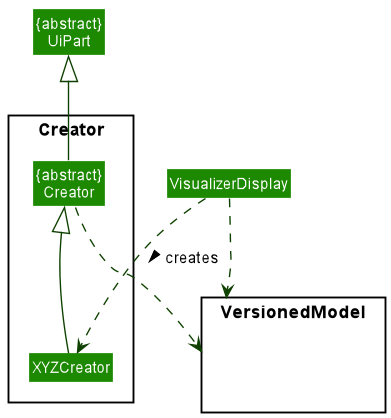
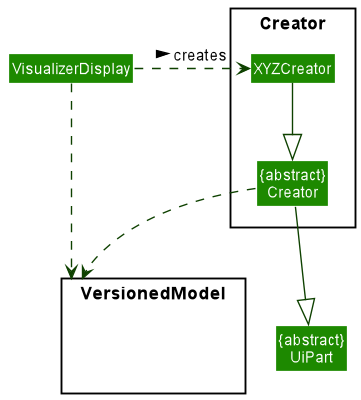
Improve documentations

Changed region(s): [[0.0, 0.0, 1.0, 0.99], [0.2133, 0.57, 0.2438, 0.6]]

diff --git a/docs/DeveloperGuide.md b/docs/DeveloperGuide.md
@@ -160,10 +160,7 @@ The **API** of this component is specified in [`Ui.java`](https://github.com/AY2
 The UI consists of a `MainWindow` that is made up of parts smaller UI-part components, including `CommandBox`, `ResultDisplay`, 
 `VisualizerDisplay`, `StudentListPanel`, `StatusBarFooter` etc. All these, including the `MainWindow`, inherit from the abstract 
 `UiPart` class which captures the commonalities between classes that represent smaller parts of the visible GUI. Of these, all components are always presented,
-except for the Help Window which can be shown or hide depending on the results of user command.
-
-Some classes of the UI, notably `CommandBox` and `AppMenu`, keeps a reference of a functional interface called `CommandExecutor` that
-executes a Command from the Logic `component`.
+except for the Help Window which can be shown or hidden depending on the results of user command.
 
 The `UI` component uses the JavaFx UI framework. The layout of these UI parts are defined in their respective matching `.fxml` files stored in the `src/main/resources/view` folder. For example, the layout of the 
 [`MainWindow`](https://github.com/AY2122S1-CS2103T-T15-3/tp/blob/master/src/main/java/seedu/academydirectory/ui/MainWindow.java) is 
@@ -176,12 +173,17 @@ The `UI` component,
 * keeps a reference (for Main Window) or depends (for AppMenu) on the `Logic` component, because the `UI` relies on the `Logic` to execute commands.
 * keeps a reference of some classes in the `VersionedModel` component, particularly the Student class, as it displays `Student` object residing in 
   the `VersionedModel` and requires grades statistics from `Student` object in the `VersionedModel`.
-  
-![Creator Class Diagram](images/dg/architecture/ui/CreatorClassDiagram.png)
 
-One important component of the UI is the specialized Creator class which extends the abstract class UiPart - for the purpose of reusing the Visualizer Display
+Some classes of the UI, notably `CommandBox`, `StudentCard` and `AppMenu`, keeps a reference of a functional interface called `CommandExecutor` that
+executes a Command from the Logic `component`. The `CommandExecutor` functional interface serves as a link between the UI and the Logic component, reducing dependency of UI on the Logic part
+
+![Structure of the UI Component](images/dg/architecture/ui/ExecutorClassDiagram.png)
+
+One important component of the UI is the specialized `Creator` class which extends the abstract class `UiPart` - for the purpose of reusing the `VisualizerDisplay`
 to show users the result of a command execution. After information is sent from Main Window to the Visualizer Display, the Visualizer Display then send the Additional
 Info Object to the Creator classes, which will be used to convert it for user view in the Visualizer Display itself.
+  
+![Creator Class Diagram](images/dg/architecture/ui/CreatorClassDiagram.png)
 
 **Design Considerations**
 
@@ -389,7 +391,8 @@ the benefits of smaller disk space utilisation in our opinion. Hence, we go for 
 
 ## **Implementation**
 
-This section describes some noteworthy details on how certain features are implemented.
+This section describes some noteworthy details on all features are implemented. Note that the section only discusses the implementation details
+of the Command classes, and not the Parser classes, for brevity purposes. Details of Parser classes check are included within the explanation below, in combination with the Command classes.
 
 ### Managing Students' Personal Details
 ### AddCommand
@@ -541,23 +544,24 @@ The implementation is similar to `AttendanceCommand`, with the same sequence dia
 
 ### ViewCommand
 
-This command serves to display the summarised details of a single `Student` in the `AcademyDirectory`.
+This command serves to display the summarised details of a single `Student` in the `AcademyDirectory` based on the index
+number of the student. If the index is invalid (not a positive integer or exceeds the list size), then an error message will be shown instead
+and `ViewCommand` will not be created.
 
 ![ViewCommandSequenceDiagram](images/dg/logic/commands/viewcommand/ViewCommandSequenceDiagram.png)
 
 #### Implementation
 
 `ViewCommand` displays the `Student` based on the relative `INDEX` in the `ObservableList` which is the list of `Student` viewed by the `Avenger`.
-Once the index and the student associated with the index is retrieved, it is set on the Additional View Model - with its associated type and info,
-to send to the UI for display.
-
 It extends the abstract class `Command` and will consequently `@Override` the `Command#execute()` method to serve the aforementioned purpose.
+
+Once the index and the student associated with the index is retrieved, it is set on the Additional View Model - with its associated type and info,
+to send to the UI for display. A success message containing the name of the student is later returned.
 
 ![ViewCommandSequenceDiagram](images/dg/logic/commands/viewcommand/ViewCommandSequenceDiagram.png)
 
-#### Implementation
-
-`ViewCommand` will extend the `Command` class and will consequently `@Override` the `Command#execute()` method to serve the aforementioned purpose.
+A noteworthy detail in implementation of ViewCommand (not related to logic) is that student grades and participation score are wrapped inside a drop-down menu on the UI, and
+users will need to click on the menu to see the details of the students.
 
 ### ShowCommand
 
@@ -590,6 +594,8 @@ The information will be displayed in the AdditionalView. The success message is 
 The following sequence diagram describes what happens when `VisualizeCommand` is executed:
 
 ![VisualizeCommandSequenceDiagram](images/dg/logic/commands/visualizecommand/VisualizeCommandSequenceDiagram.png)
+
+Note that this is a singular command - meaning that no other argument should follow `visualize`.
 
 ### FilterCommand
 
@@ -627,8 +633,8 @@ The reference frame for GetComparator can be found below. It details the selecti
 
 ### ExitCommand
 
-This command allows user to exit the application after saving all operations and data
-It extends the `Command` class and will consequently `@Override` the `Command#execute()` method to serve this purpose.
+This command allows user to exit the application after saving all operations and data. It extends the `Command` class and will consequently `@Override` the `Command#execute()` method to serve this purpose.
+Note that this is a singular command - meaning that no argument should follow after `exit`.
 
 #### Implementation
 
@@ -642,6 +648,7 @@ This command shows all students on the class, ordered by when the student is add
 
 `ListCommand` will extend the `Command` class and will consequently `@Override` the `Command#execute()` method to serve the aforementioned purpose.
 `ListCommand` retrieves the student list and display it on the student list panel on the left side. All students will be displayed.
+Note that this is a singular command - meaning that no argument should follow after `list`.
 
 ![ListCommandSequenceDiagram](images/dg/logic/commands/listcommand/ListCommandSequenceDiagram.png)
 
@@ -653,6 +660,8 @@ This command clears all `Student` entries from `AcademyDirectory`.
 
 `ClearCommand` will extend the `Command` class and will consequently `@Override` the `Command#execute()` method to serve the aforementioned purpose 
 and is Version Controllable. A new Academy Directory is created to replace the current one, meaning that the student list is set to empty.
+Note that this is a singular command - meaning that no argument should follow after `clear`.
+
 The `ClearCommand` is a version controlled command. For the list of version controlled command, refer [here](#appendix-c-version-controlled-commands)
 
 ![ClearCommandSequenceDiagram](images/dg/logic/commands/clearcommand/ClearCommandSequenceDiagram.png)
@@ -692,6 +701,7 @@ The following sequence diagram shows the above implementation:
 ![HistoryCommandSequenceDiagram](images/dg/logic/commands/historycommand/HistoryCommandSequenceDiagram.png)
 
 Note that the above diagram is omits several details but should be sufficient to grasp how `HistoryCommand` works.
+In addition, this is a singular command - meaning that no argument should follow after `history`.
 
 #### Limitation
 The current implementation can only show two commit branches: `MAIN` and `OLD`. While this is
@@ -749,6 +759,7 @@ as _version controlled commands_ (read [here](#glossary) for details on what thi
 `UndoCommand` will extend the `Command` class and will consequently `@Override` the `Command#execute()` method to
 serve the aforementioned purpose. Internally, the `UndoCommand` makes use of the `RevertCommand`. 
 Hence `UndoCommand` serves as _syntactic sugar_ for the `RevertCommand`.
+Note this is a singular command - meaning that no argument should follow after `undo`.
 
 ### RedoCommand
 This command redoes a change done to the underlying `AcademyDirectory` data. Note that this is
@@ -760,11 +771,12 @@ as _version controlled commands_ (read [here](#glossary) for details on what thi
 `RedoCommand` will extend the `Command` class and will consequently `@Override` the `Command#execute()` method to
 serve the aforementioned purpose. Internally, the `RedoCommand` makes use of the `RevertCommand`.
 Hence `RedoCommand` serves as _syntactic sugar_ for the `RevertCommand`.
+Note that this is a singular command - meaning that no argument should follow `redo`
 
 ### HelpCommand
 
 This command serves to guide new users on using the application, which syntax to use and when to use them. Users can view a summary of all commands' syntax,
-or a specific guide on how to use a particular command.
+or a specific guide on how to use a particular command. Note that if the command in queried are not exact, or if the command does not exist, then HelpMessage will not be created.
 
 #### Design considerations
 
@@ -772,7 +784,7 @@ In implementing the Help Command, two alternative options were proposed in takin
 1. To parse the help message directly from the User Guide
    * Pros: This is a more logical way to get the help message, relying on a parser that identifies the common starting section of each command on the User Guide
    * Cons: Unfortunately, in doing so, there was a bug exception FileNotFoundException, of which HelpCommand cannot take the help message directly from the User Guide
-   because it cannot find the file. Keeping the help message on the /resources folder was a solution, but the risk of file cannot be read is still there. In addition,
+   because it cannot find the file. Keeping the help message on the /resources folder was a solution, but the risk of file cannot be read is still there depending on the Operating System that Academy Directory is working on. In addition,
    this creates the risk of the parser working incorrectly if the header section of the User Guide changes.
 2. To store a HELP_MESSAGE field in each command class
    * Pros: Does not rely on external file, and is not prone to FileNotFoundException. Also, it encapsulates the object better, with each command having an associated
@@ -783,20 +795,24 @@ In implementing the Help Command, two alternative options were proposed in takin
 Ultimately, Solution 2 was adopted to reduce the risk of bugs on Help Command being vulnerable to FileNotFoundException error, and to better encapsulate the Command
 classes. In addition, Academy Directory will always require maintenance from the developers, and it is not a bad thing to keep the HELP_MESSAGE updated to the User Guide changes continuously.
 
+Hence, one of the limitations to HelpCommand is the longer and harder-to-read content of String message, which can make it difficult for reviewers to look on. In addition,
+`help` can only work when the command in queried is exact, meaning that it does not work for partial instructions in case of user's typo, like `addd` or `partcpation`. This
+is a valid use-case for Academy Directory in a sense that users who mistype command often need better instruction than a general help summary. A future extension could be to
+allow auto-suggestion and auto-assistance for `help`, for a more comprehensive assistance system.
+
 #### Implementation
 
 `HelpCommand` will extend the `Command` class, and consequently `@Override` the `Command#execute()` method to serve its initial purposes.
 
-The mechanism of the command is done by retrieving a `HELP_MESSAGE` field in each of the other command classes (other than HelpCommand itself). This help command will
-be displayed to the user on a separate window later on.
+The mechanism of the command is done by retrieving a `HELP_MESSAGE` field in each of the other command classes (other than HelpCommand itself). 
+This help message will be displayed to the user on a separate window of the UI.
 
 ![HelpCommandSequenceDiagram](images/dg/logic/commands/helpcommand/HelpCommandSequenceDiagram.png)
 
-As seen from the diagram, the `HelpCommand` involves the use of conditional branches. If the optional condition is met, a `CommandException` is thrown to let
-users know that the input is invalid.
+Help Command will check whether the queried help is a general help (meaning that a summary table of all command formats should be shown to users), or is a
+specific help (meaning that the instruction and remarks of a particular targeted command should be used).
 
-Otherwise, the HelpCommand will use conditional branch to guide users to two different scenarios, as shown above. If it is a general help, a general help command
-will be created. If it is a specific help, then a specific help command associated with a command will be created.
+Additionally, the help message itself is sent to VersionedModel as an `AdditionalInfo` object, which will be used to convert to `HelpWindow` view later on.
 
 --------------------------------------------------------------------------------------------------------------------
 
@@ -1120,8 +1136,8 @@ Priorities: High (must have) - `* * *`, Medium (nice to have) - `* *`, Low (unli
 | Studios | Tutorials held in CS1101S and are essential in aiding the students to improve their grasp on the concepts taught during the lecture. | < 10 students in a studio |
 | Avengers | A special term to call a CS1101S tutor. An avenger organizes a Studio session to improve on CS1101S concepts taught in lecture, recording attendance and grades. | An avenger holds at most one class. |
 | Principle of Least-Privilege | Minimum levels of access – or permissions – needed to perform function. | |
-| Command Line Interface (CLI) | A text-based user interface, where users type commands to instruct the computer to do something. | |
-| Graphical User Interface (GUI) | A graphics-based user interface, where users click buttons to instruct the computer to do something. | |
+| Command Line Interface (CLI) | A text-based user interface, where users instruct the computer to do something by line-of-text commands | |
+| Graphical User Interface (GUI) | A graphics-based user interface, where users instruct the computer to do something by interacting with graphical elements | |
 | Java | A program that allows running other programs written in Java programming language. | |
 | `Command` | An interface representing an instruction typed by a user to Academy Directory. | |
 | Version controlled `Command` | a `Command` that logs a commit message, and thus stages at least one `VcObject` object upon execution. | Refer to the list of such commands [here](#appendix-c-version-controlled-commands) |
@@ -1129,6 +1145,7 @@ Priorities: High (must have) - `* * *`, Medium (nice to have) - `* *`, Low (unli
 | Field | Additional information that can be provided to a command for correct command execution. | May or may not have an associated prefix |
 | Parameter | Part of the command which provides additional information provided by the user. | Actual values for the fields |
 | Prefix | An abbreviation of a field. | Always ends with a backslash ('/') |
+| Singular Commands | A command that consists of only one word and no other arguments | If there are any other character/words following a singular command, an error message will be shown
 
 --------------------------------------------------------------------------------------------------------------------
 
@@ -1178,6 +1195,7 @@ Our team has put in a significant amount of effort to get AcademyDirectory to th
    We have put in a significant amount of effort morphing the existing code base, AB3 to support the need of our application, which is designed for CS1101S avenger to be more effective and efficient.
 
    Firstly, we had to create new classes for components related to our application, such as <TO BE ADDED>. Each of these classes has different input format requirements and is related to different command.
+   Many commands and features we have implemented are not 
 
    Secondly, we had to remove all the irrelevant classes and update the existing test cases to fit our need.
 

diff --git a/docs/team/hmanhduc2k.md b/docs/team/hmanhduc2k.md
@@ -47,7 +47,7 @@ Given below are my contributions to the project.
 
 * **Documentation**:
   * User Guide:
-    * Added documentation for the features `help` and `view`.
+    * Added documentation for the features `help` and `view`
     * Added the Preview Section of UI and some Q&A parts.
     * Assist with writing introduction and quick start for usage instruction.
   * Developer Guide:
